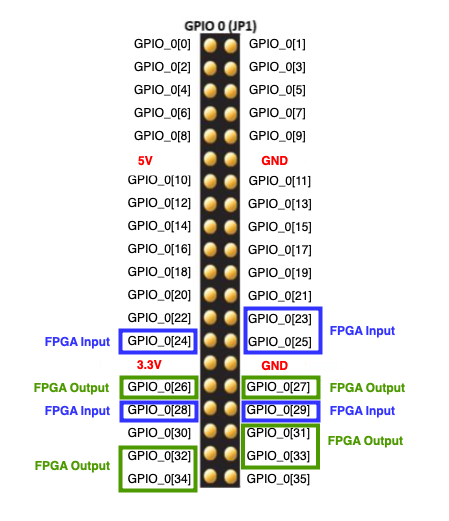
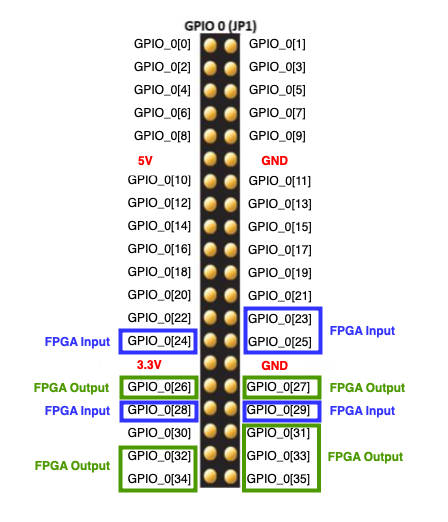
cleaned up console logs

Changed region(s): [[0.0625, 0.0307, 0.9062, 0.952]]

diff --git a/server/hybridapi/static/simulations/butterfly/static/logic_gates/breadboard-visir.js b/server/hybridapi/static/simulations/butterfly/static/logic_gates/breadboard-visir.js
@@ -47,8 +47,9 @@ RHLab.Widgets.Breadboard = function() {
         39: 'GPIO34',
         36: 'GPIO31',
         38: 'GPIO33',
+        40: 'GPIO35',
     };
-    var OUTPUTS_BY_PIN_ARRAY = [31, 32, 37, 39, 36, 38];
+    var OUTPUTS_BY_PIN_ARRAY = [31, 32, 37, 39, 36, 38, 40];
 
     // // Define the inputs from the 40-pin GPIO for the DE1-SoC
     // var INPUTS_BY_PIN = {
@@ -146,7 +147,6 @@ RHLab.Widgets.Breadboard = function() {
 
                 self._breadboard.LoadMyCircuit(getOriginalWires(self._numberOfSwitches));
                 self._originalNumberOfWires = self._breadboard._wires.length;
-                console.log(me._wires.length);
 
                 self._notGate = [];
                 self._andGate = [];
@@ -218,7 +218,6 @@ RHLab.Widgets.Breadboard = function() {
                     self._breadboard.SelectComponent(null);
                 }
             }
-            console.log("I hit the trash can");
             parent.postMessage({
                 messageType: "web2sim",
                 version: "1.0",
@@ -920,7 +919,7 @@ RHLab.Widgets.Breadboard = function() {
     Breadboard.prototype.Update = function() {
         // Initialize self variables used for checking throughout the update process
         console.log("Updating...");
-        console.log(this);
+        // console.log(this);
         var myString = this.CalculateWiringProtocolMessage();
         // console.log(myString);
         if(myString.includes("Error")){
@@ -1002,9 +1001,8 @@ RHLab.Widgets.Breadboard = function() {
         var nonGateLeftovers = [];
         var _leds = this._leds;
 
-        console.log(componentStatus);
-        console.log(wires.length);
-        console.log(this._originalNumberOfWires)
+        // console.log(componentStatus);
+
         for (var i = this._originalNumberOfWires; i < wires.length; i++) {
         // for (var i = 10; i < wires.length; i++) {
             var componentCounterNot1 = 0;
@@ -2095,8 +2093,6 @@ RHLab.Widgets.Breadboard = function() {
 
         this._leftPosition = leftPosition;
         this._rightPosition = topPosition;
-        console.log(this._leftPosition);
-        console.log(this._topPosition);
         // Breadboard.Component.call(this, identifier, leftPosition, topPosition, image1, image2);
 
         // Link appropriate css that makes the mouse become a pointer
@@ -2106,7 +2102,6 @@ RHLab.Widgets.Breadboard = function() {
 
             this._value = false;
             this._objVisir._$elem.find('img').click(function () {
-                console.log("switch pressed");
                 self._Change();
             });
         }

diff --git a/server/hybridapi/static/simulations/butterfly/butterfly.html b/server/hybridapi/static/simulations/butterfly/butterfly.html
@@ -36,7 +36,7 @@
 	</div>
     <div>
         <img src="static/resources/images/de1_pinout_info.png" width=400px style="float:left;">
-        <img src="static/resources/images/logic_pinout.png" width=200px style="float:left;">
+        <img src="static/resources/images/logic_gates_pinout_square.png" width=400px style="float:left;">
     </div>
 
     

diff --git a/server/hybridapi/static/simulations/butterfly/static/logic_gates/client_capture.js b/server/hybridapi/static/simulations/butterfly/static/logic_gates/client_capture.js
@@ -7,7 +7,7 @@
         document.getElementById("protocol").innerHTML = myString;
     }
     else{
-        document.getElementById("protocol").innerHTML = "";
+        document.getElementById("protocol").innerHTML = "Ready";
         parent.postMessage({
             messageType: "web2sim",
             version: "1.0",

diff --git a/src/rhlab/butterfly.h b/src/rhlab/butterfly.h
@@ -27,40 +27,9 @@ using namespace std;
 #define LED_ARRAY_SIZE      5
 #define NUM_SATURATION_ITR  5
 #define MAX_CHAR_ARRAY_SIZE 1024
+
 #define SIM_OUTPUT_GPIO_NUM 5
-#define SIM_INPUT_GPIO_NUM  6
-
-// GPIO structs
-struct gpio_input {
-    bool g31;
-    bool g32;
-};
-
-struct gpio_output {
-    bool g06;
-    bool g07;
-    bool g08;
-    bool g09;
-    bool g10;
-    bool g13;
-    bool g14;
-    bool g15;
-    bool g16;
-    bool g17;
-    bool g18;
-    bool g19;
-    bool g20;
-    bool g21;
-    bool g22;
-    bool g23;
-    bool g24;
-    bool g25;
-};
-
-struct gpio_header {
-    gpio_input input;
-    gpio_output output;
-};
+#define SIM_INPUT_GPIO_NUM  7
 
 // struct that receives the string
 struct ButterflyRequest : public BaseInputDataType {
